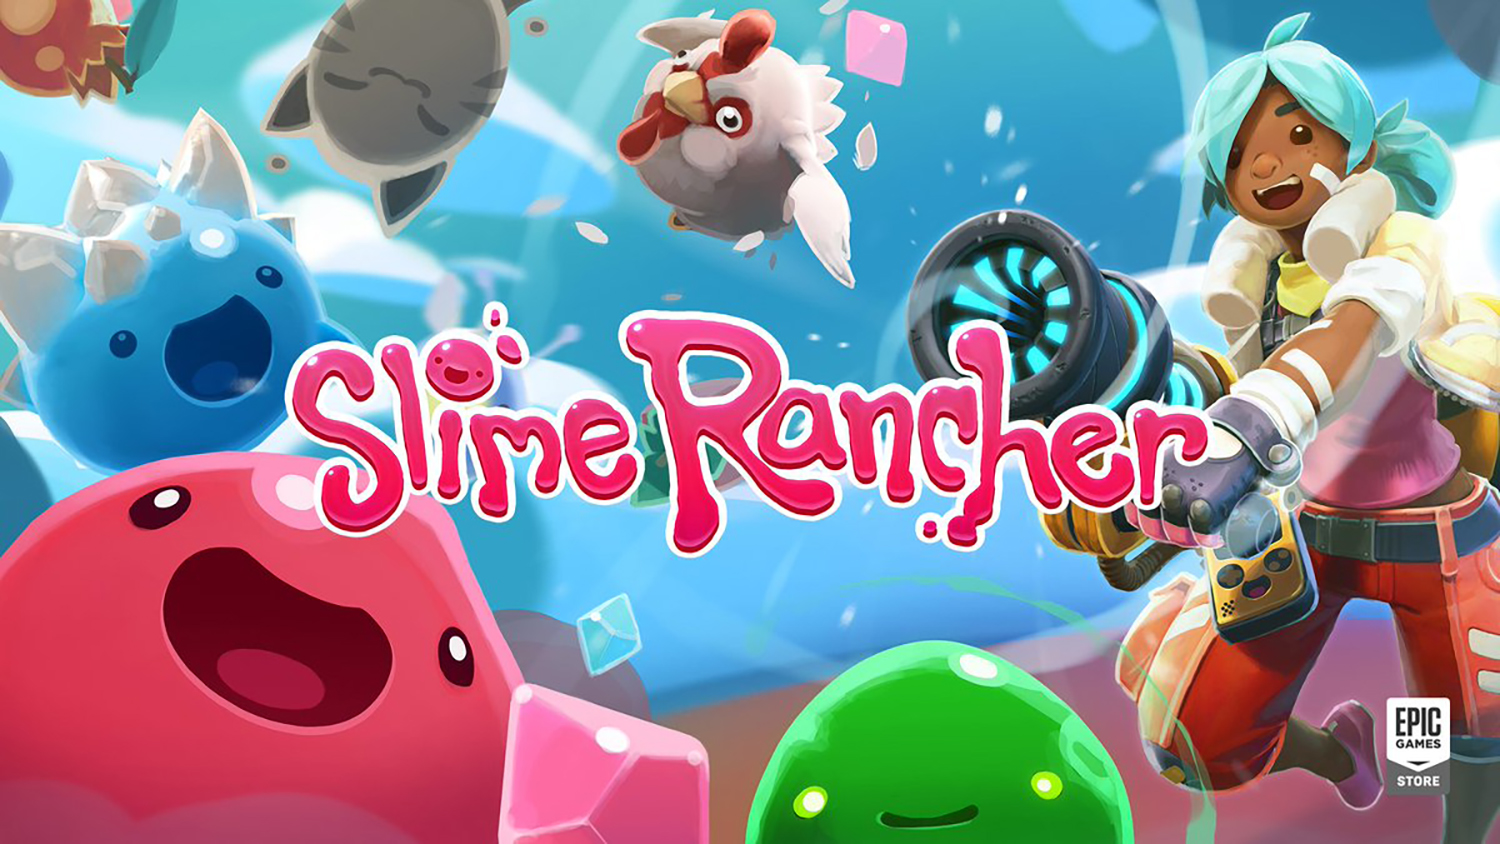
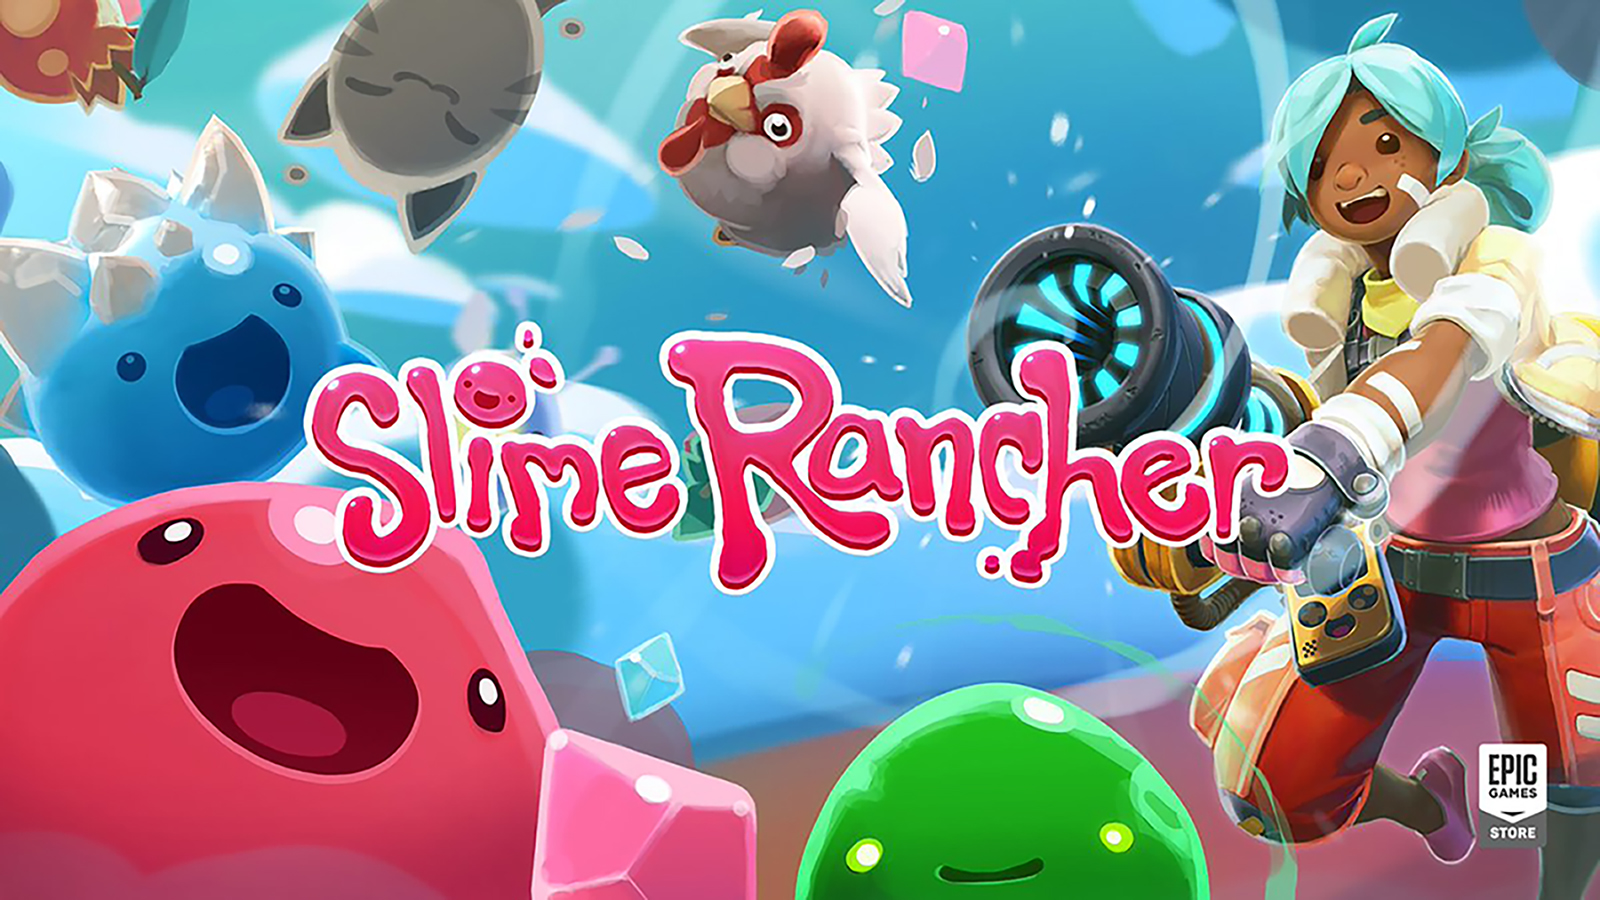
centered image

diff --git a/index.html b/index.html
@@ -59,9 +59,20 @@
 
 <!-- START Title  -->
 
-<img src="images\slime.jpg">
+<center><img src="images\slime.jpg"></center>
 
 <!-- END Title  -->
+
+<!-- background image -->
+
+
+
+<!-- end background image -->
+<!-- line -->
+
+<hr> </hr>
+
+<!-- end line -->
 
 <!-- START INTRODUCTION CODE -->
 <div id="MainContent">
@@ -82,7 +93,9 @@ character's home, Vacpack, and the ranch itself.</p>
 <p> The aim of the game is to explore the whole of the far far range and find and farm every slime. You can do this by exploring and unlocking
 doors around the map. These doors can be unlocked with keys which can be obtained by feeding Gordo slimes (massive versions of slimes found around
 the map) there favourite food. The gordo will burst open, dropping some loot and a key. 
-Once the door is open it will unlock a new section of the map with even more slimes to find and even more areas to explore. </p> 
+Once the door is open it will unlock a new section of the map with even more areas to explore. These new areas will have new slimes to find and capture.
+Eventually, once you have completed enough of the game, you will be asked to go back to your home base. awaiting there will be a message which will 
+tell the player that they are going home. This will mark the end of the storyline game and no you can rome free. </p> 
 
 
 
